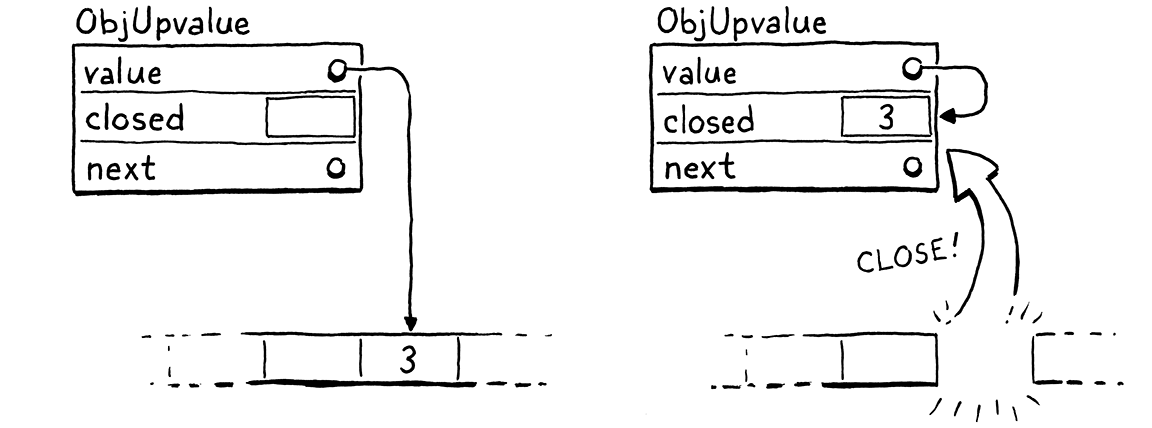
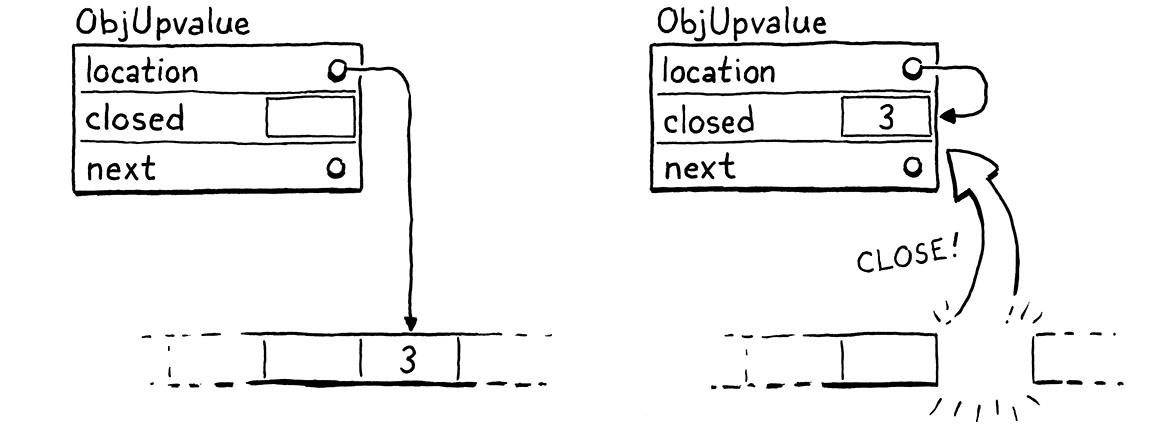
Update field name in closure illustrations.
Fix #539.

Changed region(s): [[0.5625, 0.1215, 0.6875, 0.2126], [0.0625, 0.1519, 0.1875, 0.2126]]

diff --git a/site/closures.html b/site/closures.html
@@ -1094,12 +1094,12 @@ stack, which implies some amount of dynamic allocation. The easiest way to do
 that in our VM is by building on the object system we already have. That way,
 when we implement a garbage collector in <a href="garbage-collection.html">the next chapter</a>, the GC can
 manage memory for upvalues too.</p>
-<p>Thus, our runtime upvalue structure is an ObjUpvalue with the typical Obj
-header field. Following that is the field that points to the closed-over
+<p>Thus, our runtime upvalue structure is an ObjUpvalue with the typical Obj header
+field. Following that is a <code>location</code> field that points to the closed-over
 variable. Note that this is a <em>pointer</em> to a Value, not a Value itself. It&rsquo;s a
 reference to a <em>variable</em>, not a <em>value</em>. This is important because it means
-that when we assign to the variable the upvalue captures, we&rsquo;re assigning to
-the actual variable, not a copy. For example:</p>
+that when we assign to the variable the upvalue captures, we&rsquo;re assigning to the
+actual variable, not a copy. For example:</p>
 <div class="codehilite"><pre><span></span><span class="k">fun</span> <span class="n">outer</span><span class="p">()</span> <span class="p">{</span>
   <span class="k">var</span> <span class="n">x</span> <span class="o">=</span> <span class="s">&quot;before&quot;</span><span class="p">;</span>
   <span class="k">fun</span> <span class="n">inner</span><span class="p">()</span> <span class="p">{</span>

diff --git a/book/closures.md b/book/closures.md
@@ -782,12 +782,12 @@ manage memory for upvalues too.
 
 [gc]: garbage-collection.html
 
-Thus, our runtime upvalue structure is an ObjUpvalue with the typical Obj
-header field. Following that is the field that points to the closed-over
+Thus, our runtime upvalue structure is an ObjUpvalue with the typical Obj header
+field. Following that is a `location` field that points to the closed-over
 variable. Note that this is a *pointer* to a Value, not a Value itself. It's a
 reference to a *variable*, not a *value*. This is important because it means
-that when we assign to the variable the upvalue captures, we're assigning to
-the actual variable, not a copy. For example:
+that when we assign to the variable the upvalue captures, we're assigning to the
+actual variable, not a copy. For example:
 
 ```lox
 fun outer() {
